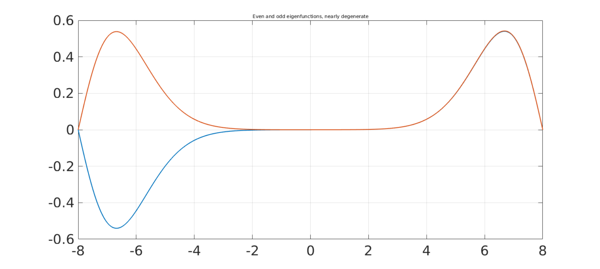
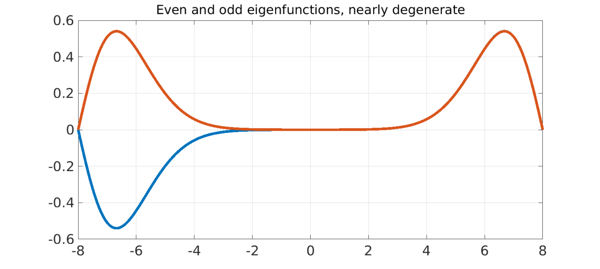
Publish example ode-eig/ContinuousWilkinson.
This message was auto-generated by publish-example.sh.

diff --git a/examples/ode-eig/img/ContinuousWilkinson.html b/examples/ode-eig/img/ContinuousWilkinson.html
@@ -24,32 +24,32 @@ Here is an analogue involving a self-adjoint Sturm-Liouville differential operat
 [V,D] = eigs(L,4,'LR');
 format long
 e = diag(D)</pre><pre class="mcode-output">e =
-   3.912042616399587
-   3.912059036621492
-   5.661892584504194
-   5.661892594767868
+   3.912042616399492
+   3.912059036621565
+   5.661892584504276
+   5.661892594767580
 </pre>A plot shows that as with the matrix, we have an even leading eigenfunction and a second eigenfunction that is almost the same except for a sign flip.
 
 <pre class="mcode-input">LW = 'linewidth'; FS = 'fontsize';
-plot(V(:,3:4),LW,1.6), grid on, shg
-title('Even and odd eigenfunctions, nearly degenerate',FS,12)</pre><img src="img/ContinuousWilkinson_01.png" class="figure" alt="">
+plot(V(:,3:4),LW,5), grid on, shg
+title('Even and odd eigenfunctions, nearly degenerate',FS,32)</pre><img src="img/ContinuousWilkinson_01.png" class="figure" alt="">
 
 For both our matrix and our differential operator problems, mathematically one eigenmode is even and the next is odd.  However, the real effect going on here is that the two ends of the domain are virtually decoupled.  By taking the sum and the difference of of the two eigenmodes, one gets a true even-odd pair:
 
 <pre class="mcode-input">right = V(:,4) + V(:,3);
 left = V(:,4) - V(:,3);
-plot([left right],LW,1.6)
-title('Left and right pseudo-eigenfunctions, localized',FS,12)</pre><img src="img/ContinuousWilkinson_02.png" class="figure" alt="">
+plot([left right],LW,5)
+title('Left and right pseudo-eigenfunctions, localized',FS,32)</pre><img src="img/ContinuousWilkinson_02.png" class="figure" alt="">
 
 Let's confirm that these are pseudo-eigenfunctions.  First we confirm that the eigenfunctions are eigenfunctions:
 
 <pre class="mcode-input">v = V(:,4); lambda = e(4); format short
 norm( L*v - lambda*v )</pre><pre class="mcode-output">ans =
-   3.4771e-11
+   3.1661e-12
 </pre>Now we do a similar calculation with "left":
 
 <pre class="mcode-input">v = left; lambda = mean(e(3:4));
 norm( L*v - lambda*v )</pre><pre class="mcode-output">ans =
-   7.2457e-09
+   7.2564e-09
 </pre>As we say in the pseudospectra business, $v$ is not "near" an eigenfunction, but it is "nearly" an eigenfunction.
 

diff --git a/examples/ode-eig/ContinuousWilkinson.html b/examples/ode-eig/ContinuousWilkinson.html
@@ -83,23 +83,23 @@ format long
 e = diag(D)</pre>
 
 <pre class="mcode-output">e =
-   3.912042616399587
-   3.912059036621492
-   5.661892584504194
-   5.661892594767868
+   3.912042616399492
+   3.912059036621565
+   5.661892584504276
+   5.661892594767580
 </pre>
 
 <p>A plot shows that as with the matrix, we have an even leading eigenfunction and a second eigenfunction that is almost the same except for a sign flip.</p>
 <pre class="mcode-input">LW = 'linewidth'; FS = 'fontsize';
-plot(V(:,3:4),LW,1.6), grid on, shg
-title('Even and odd eigenfunctions, nearly degenerate',FS,12)</pre>
+plot(V(:,3:4),LW,5), grid on, shg
+title('Even and odd eigenfunctions, nearly degenerate',FS,32)</pre>
 
 <p><img src="img/ContinuousWilkinson_01.png" class="figure" alt=""></p>
 <p>For both our matrix and our differential operator problems, mathematically one eigenmode is even and the next is odd.  However, the real effect going on here is that the two ends of the domain are virtually decoupled.  By taking the sum and the difference of of the two eigenmodes, one gets a true even-odd pair:</p>
 <pre class="mcode-input">right = V(:,4) + V(:,3);
 left = V(:,4) - V(:,3);
-plot([left right],LW,1.6)
-title('Left and right pseudo-eigenfunctions, localized',FS,12)</pre>
+plot([left right],LW,5)
+title('Left and right pseudo-eigenfunctions, localized',FS,32)</pre>
 
 <p><img src="img/ContinuousWilkinson_02.png" class="figure" alt=""></p>
 <p>Let's confirm that these are pseudo-eigenfunctions.  First we confirm that the eigenfunctions are eigenfunctions:</p>
@@ -107,7 +107,7 @@ title('Left and right pseudo-eigenfunctions, localized',FS,12)</pre>
 norm( L*v - lambda*v )</pre>
 
 <pre class="mcode-output">ans =
-   3.4771e-11
+   3.1661e-12
 </pre>
 
 <p>Now we do a similar calculation with "left":</p>
@@ -115,7 +115,7 @@ norm( L*v - lambda*v )</pre>
 norm( L*v - lambda*v )</pre>
 
 <pre class="mcode-output">ans =
-   7.2457e-09
+   7.2564e-09
 </pre>
 
 <p>As we say in the pseudospectra business, $v$ is not "near" an eigenfunction, but it is "nearly" an eigenfunction.</p></div>

diff --git a/index.html b/index.html
@@ -269,5 +269,5 @@ plot(minx(1),minx(2),'.w')
     <script type="text/javascript" src="/js/config.js"></script>
     <script type="text/javascript" src="/js/jquery.flexslider-min.js"></script>
   </body>
-<!-- Compiled on Thursday, 13 April 2017 at 09:44. -->
+<!-- Compiled on Monday, 17 April 2017 at 09:43. -->
 </html>

diff --git a/examples/ode-eig/ContinuousWilkinson.m b/examples/ode-eig/ContinuousWilkinson.m
@@ -43,8 +43,8 @@ e = diag(D)
 % eigenfunction and a second eigenfunction that is almost the same
 % except for a sign flip.
 LW = 'linewidth'; FS = 'fontsize';
-plot(V(:,3:4),LW,1.6), grid on, shg
-title('Even and odd eigenfunctions, nearly degenerate',FS,12)
+plot(V(:,3:4),LW,5), grid on, shg
+title('Even and odd eigenfunctions, nearly degenerate',FS,32)
 
 %%
 % For both our matrix and our differential operator problems, 
@@ -54,8 +54,8 @@ title('Even and odd eigenfunctions, nearly degenerate',FS,12)
 % of the two eigenmodes, one gets a true even-odd pair:
 right = V(:,4) + V(:,3);
 left = V(:,4) - V(:,3);
-plot([left right],LW,1.6)
-title('Left and right pseudo-eigenfunctions, localized',FS,12)
+plot([left right],LW,5)
+title('Left and right pseudo-eigenfunctions, localized',FS,32)
 
 %%
 % Let's confirm that these are pseudo-eigenfunctions.  First we
